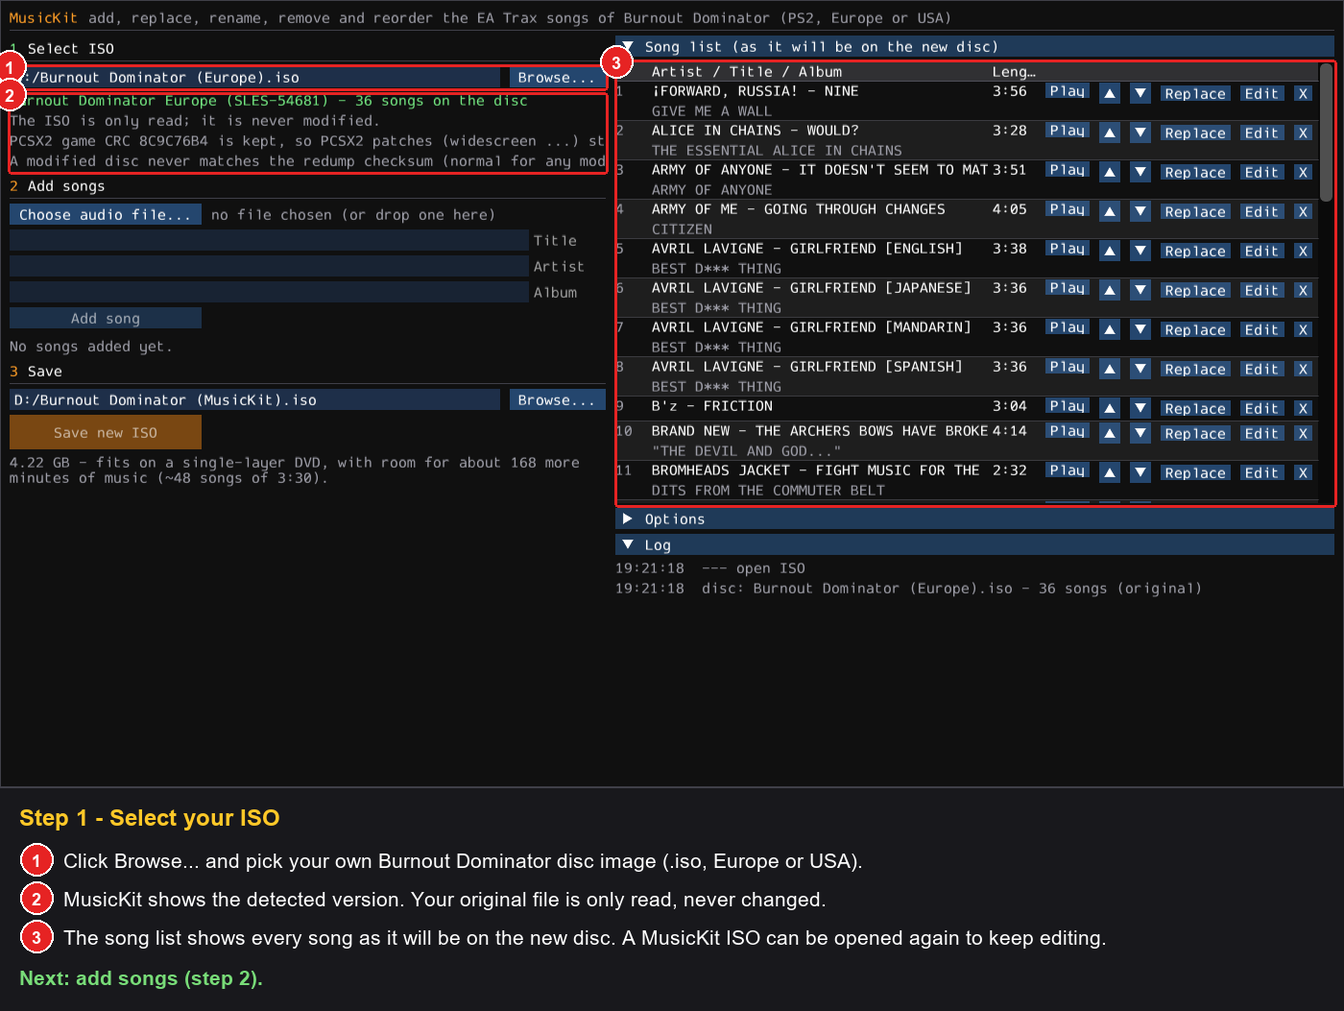
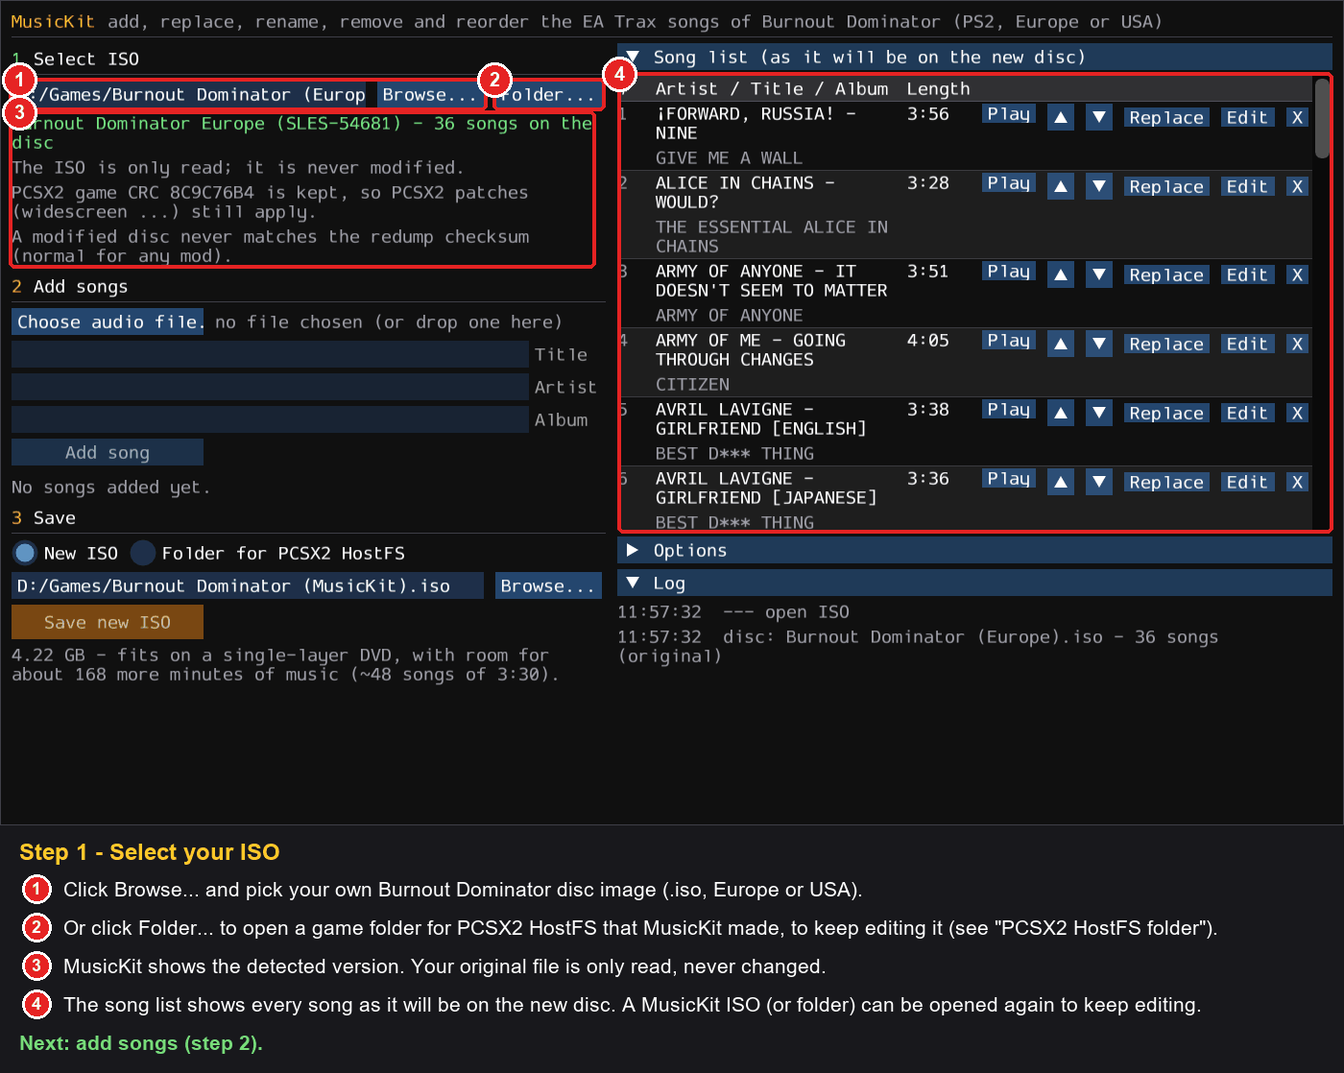
README: HostFS folder, combining mods, setup, new screenshots
- Install: Python 3.12-3.15 or none (private Python 3.13), what the setup does
- PCSX2 HostFS folder: save step by step, Play it in PCSX2 (Nahelam's patches,
  pnach names), combining mods, folders made by other tools
- Screenshots re-made for the current window (Folder..., output choice,
  HostFS before/after saving) and PCSX2 settings for HostFS

diff --git a/README.md b/README.md
@@ -11,9 +11,10 @@ the original ones included.
 - Works with your own disc image of **Burnout Dominator for PlayStation 2**:
   - Europe — `SLES-54681` (English) and `SLES-54627` (English, French, German, Spanish, Italian)
   - USA — `SLUS-21596`
-- Your original image is **only read, never modified**; MusicKit writes a **new** `.iso`.
-- Songs: MP3, FLAC, WAV, OGG, M4A … (anything ffmpeg can read), up to 94 songs in total.
-- Add, replace, rename, remove and reorder songs — and reopen an image MusicKit made to keep editing it.
+- Your original image is **only read, never modified**; MusicKit writes a **new** `.iso` — or, for PCSX2, saves
+  into a **game folder** ([PCSX2 HostFS](#pcsx2-hostfs-folder-no-new-iso)), where later changes take seconds.
+- Songs: MP3, FLAC, WAV, OGG, M4A … (anything ffmpeg can read), up to **94 songs** in total.
+- Add, replace, rename, remove and reorder songs — and reopen an image (or folder) MusicKit made to keep editing it.
 - Added songs get their own rows in the game's Song Manager (the original list has 36 rows).
 - The new image keeps the game's PCSX2 CRC (`8C9C76B4` / `8C9576B4` Europe, `8C9576A1` USA), so **PCSX2 still
   recognises the game and applies its patches** (widescreen etc.).
@@ -33,12 +34,13 @@ the original ones included.
 ### Step 3 — Arrange the song list (optional)
 ![Step 3 - replace, rename, remove and reorder songs](docs/images/step3_song_list.png)
 
-### Step 4 — Save a new ISO
+### Step 4 — Save a new ISO (or a PCSX2 HostFS folder)
 ![Step 4 - save the new ISO](docs/images/step4_save.png)
 
 Before you save, MusicKit shows the size of the new image and how much more music still fits on a single-layer
 DVD (4.7 GB) — calculated from *your* image. If it would not fit, you see a warning; you can still save it (see
-[FAQ](#faq)).
+[FAQ](#faq)). For PCSX2 you can choose **Folder for PCSX2 HostFS** instead — see
+[PCSX2 HostFS folder](#pcsx2-hostfs-folder-no-new-iso).
 
 ### Step 5 — Play
 Load the new `.iso` in PCSX2 (or burn it / run it on your PS2) and open **SETTINGS → EA TRAX**.
@@ -51,9 +53,9 @@ Load the new `.iso` in PCSX2 (or burn it / run it on your PS2) and open **SETTIN
 
 ## Guides
 
-Nothing is written until you click **Save new ISO** — every change below is only collected in the song list
-(right side), which shows the soundtrack exactly as it will be on the new disc. **Undo all changes** goes back to
-the song list of the opened image.
+Nothing is written until you click **Save new ISO** (or **Save to folder**) — every change below is only collected
+in the song list (right side), which shows the soundtrack exactly as it will be on the new disc. **Undo all
+changes** goes back to the song list of the opened image.
 
 ### Add songs
 *Choose audio file…* (or drop files on the window), type title / artist / album, click **Add song**. New songs are
@@ -79,7 +81,8 @@ Use ▲ / ▼ to move a song. Moved songs are tagged *[was #N]* with their old p
 
 ### Reopen a MusicKit ISO and keep editing
 Select an image MusicKit made in step 1: its current song list is read back from the disc (added and replaced
-songs are recognised). Change it like any other image and save another **new** `.iso`.
+songs are recognised). Change it like any other image and save another **new** `.iso`. A HostFS folder is opened
+with **Folder...** instead and saved into itself.
 
 ### Save games: removing or reordering songs
 The game stores the Song Manager setting of positions **1–36** (on/off, menus/races) on the memory card **by
@@ -96,12 +99,13 @@ you want and save your game.
 With PCSX2 you can also save your soundtrack into a **folder** instead of a new disc image. PCSX2's *Host
 Filesystem* then loads the game's files straight from that folder:
 
-- the first save copies the game's files from your ISO into the folder (once, about 2 GB);
+- the first save copies the game's files from your ISO into the folder (once, about 1.7 GB);
 - every later save only rewrites the files MusicKit changes (the song files, the song names and the game
   executable) — no new ISO each time, a save takes seconds;
-- there is no disc size limit in a folder.
+- there is no disc size limit in a folder (handy for the almost full 5-language Europe disc);
+- **PCSX2 only** — a folder does not work on a real PS2.
 
-PCSX2 only (not a real PS2). The Criterion games need a small PCSX2 cheat to read from a folder:
+The Criterion games need a small PCSX2 cheat to read from a folder:
 **Nahelam's HostFS patches** ([PCSX2-HostFS-Patches](https://github.com/Nahelam/PCSX2-HostFS-Patches), folder
 [Criterion Games](https://github.com/Nahelam/PCSX2-HostFS-Patches/tree/main/Criterion%20Games)) — thanks to
 [Nahelam](https://github.com/Nahelam) for making them. MusicKit does not include that cheat; you download it once.
@@ -113,7 +117,8 @@ file itself.
 
 ### Save into a folder
 1. Select your ISO in step 1 as usual and change the songs.
-2. In step 3 choose **Folder for PCSX2 HostFS** and pick an **empty folder** (or the folder of an earlier save).
+2. In step 3 choose **Folder for PCSX2 HostFS** and **Browse...** to an **empty folder** (or the folder of an
+   earlier save).
 3. The first time, choose **your Burnout Revenge ISO** in the field that appears below the folder, so MusicKit can
    copy `IOP/GTFSHOST.IRX` into the folder (or copy `IOP/GTFSHOST.IRX` from your Burnout Revenge disc into the
    folder's `IOP` folder yourself). Without it the game cannot start from the folder.
@@ -121,8 +126,12 @@ file itself.
    `Burnout Dominator (HostFS).iso` into the folder (it holds only `SYSTEM.CNF` and the game executable and is
    rebuilt on every save).
 
+![Save into a PCSX2 HostFS folder](docs/images/hostfs_save.png)
+
 To change the songs again, open the folder in step 1 with **Folder...** (or click *Open this folder here* after
 saving) and save again — it is saved into itself. Your ISO is never changed.
+
+![After saving: open the folder again, and how to play it in PCSX2](docs/images/hostfs_saved.png)
 
 ### Play it in PCSX2 (once)
 1. Download the cheat for your version from
@@ -134,67 +143,84 @@ saving) and save again — it is saved into itself. Your ISO is never changed.
    - Asia (SLAJ-25094): `SLAJ-25094_DDBB03C2_hostfs.pnach`
 
    Put it into PCSX2's `cheats` folder (PCSX2: *Tools → Open Data Directory*).
-2. Add your folder to PCSX2's game list (*Settings → Game List → Add...*, without recursive scan). It shows
-   `Burnout Dominator (HostFS).iso`.
+2. Add your folder to PCSX2's game list (*Settings → Game List → Add...*, without recursive scan). The game appears
+   as **Burnout Dominator**, only a few MB in size: that is the boot image `Burnout Dominator (HostFS).iso`.
 3. Right-click it → *Properties*: on the *Emulation* page switch on **Enable Host Filesystem**; on the *Cheats* page
    switch on **Enable Cheats** and tick **HostFS**.
-4. Start `Burnout Dominator (HostFS).iso`.
+4. Start it from the game list.
+
+![PCSX2: the folder in the game list, Enable Host Filesystem, Enable Cheats + HostFS](docs/images/pcsx2_hostfs.png)
 
 The game CRC stays the same, so PCSX2's widescreen patches and your other cheats still apply. MusicKit shows these
 steps after saving, too.
 
-**Stop the game before you save** into its folder: the running game keeps its files open. On Windows MusicKit
-then refuses to save (nothing is changed) and tells you why; restart the game after saving.
+- **Stop the game before you save** into its folder: the running game keeps its files open. On Windows MusicKit
+  then refuses to save (nothing is changed) and tells you why; restart the game after saving.
+- **Linux:** the game asks for its files in mixed letter case while the disc stores them in upper case. That only
+  works in a case-insensitive folder — on ext4 for example an empty folder with casefold switched on (`chattr +F`,
+  needs a file system created with casefold support). MusicKit warns when the folder is case-sensitive but still
+  lets you save and try. Windows and macOS (default file system) need nothing special.
 
-**Linux:** the game asks for its files in mixed letter case while the disc stores them in upper case. That only
-works in a case-insensitive folder — on ext4 for example an empty folder with casefold switched on (`chattr +F`,
-needs a file system created with casefold support). MusicKit warns when the folder is case-sensitive but still lets
-you save and try. Windows and macOS (default file system) need nothing special.
+### Combining mods
 
-### Other mods in the same folder
+- **Saving again:** always open the folder (not your ISO) and save — only the changed files are rewritten.
+- **Your ISO into a folder that already has the game:** MusicKit replaces only its own changes from your ISO. If
+  another mod changed the game executable there, MusicKit refuses (nothing is changed) and tells you to open the
+  folder instead — or pick an empty folder to start again from your ISO.
+- **Other mods are kept:** other people's file mods (replaced cars, textures, videos, extra files) are never
+  touched — MusicKit writes only the files it manages — and texts other mods changed in the game's text files
+  stay too. `validate` lists such files as notes, not as errors.
+- **PCSX2 cheats and patches** (widescreen etc.) keep working: the game CRC stays the same. The *HostFS* cheat is
+  only for the folder — **untick it** before you start a normal ISO of the same game (with it on, the ISO does not
+  start).
 
-- **Saving your ISO into a folder that already has the game** replaces only MusicKit's own changes from your ISO.
-  When another kit or mod changed the game executable there, MusicKit refuses (nothing is changed) and tells you
-  to open the folder instead (or to pick an empty folder to start again from your ISO).
-- **Other people's file mods** (replaced cars, textures, videos, extra files) are never touched: MusicKit writes only
-  the files it manages. Texts other mods changed in the game's text files are kept too. `validate` lists such
-  files as notes, not as errors.
-- **PCSX2 cheats** (widescreen and other patches) keep working: the game CRC stays the same. The per-game
-  *HostFS* cheat is only for the folder — **untick it** before you start a normal ISO of the same game
-  (with it on, the ISO does not start).
-- **Folders made by other tools** work: a folder extracted with 7-Zip, or set up as in Nahelam's guide (your own ISO
-  inside the folder). Start `Burnout Dominator (HostFS).iso` then — your own ISO in the folder still starts the game's
-  original executable, without MusicKit's changes to it. MusicKit explains what to do when names still end in `;1`
-  (extract again with 7-Zip), when you picked the folder above the game's files, or when files are missing (an
-  unfinished extraction: save from your ISO into the folder and the missing files are copied).
+<details>
+<summary><b>Folders made by other tools (7-Zip, Nahelam's guide) and what was tested</b></summary>
 
-Tested in PCSX2 2.8 (Europe discs): songs that exist only in the folder play from the folder in menus and races (the
-boot image holds only `SYSTEM.CNF` and the executable); other mods' files and texts stayed unchanged through every
-save.
+- A folder extracted with 7-Zip, or set up as in Nahelam's guide (your own ISO inside the folder), works. Start
+  `Burnout Dominator (HostFS).iso` then — your own ISO in the folder still starts the game's original executable,
+  without MusicKit's changes to it.
+- MusicKit explains what to do when names still end in `;1` (extract again with 7-Zip), when you picked the folder
+  above the game's files, or when files are missing (an unfinished extraction: save from your ISO into the folder
+  and the missing files are copied).
+- Tested in PCSX2 2.8 (Europe discs): songs that exist only in the folder play from the folder in menus and races
+  (the boot image holds only `SYSTEM.CNF` and the executable); other mods' files and texts stayed unchanged through
+  every save.
 
-Command line ([optional](#command-line-optional)): `build --iso "Burnout Dominator (Europe).iso" --folder "<folder>"
---gtfshost-from "Burnout Revenge (Europe).iso"` saves into a folder (copying `IOP/GTFSHOST.IRX` from your Burnout
-Revenge ISO); `--iso "<folder>"` opens one (it is then saved into itself); `validate "<your ISO>" "<folder>"`
-checks a folder.
+</details>
 
 ## Requirements
 
 | What | Details |
 |---|---|
 | Operating system | Windows 10 or 11 (64-bit), macOS 14 Sonoma or newer (Apple Silicon or Intel), or 64-bit Linux (x86_64 or aarch64, glibc 2.28+; tested on Ubuntu 22.04 / 24.04) |
-| Python | any Python 3.12 or newer, or none at all — the setup picks an installed Python for which every package is available ready-made, or downloads a private Python 3.13 into the `.python` folder (no admin rights needed, about 100 MB) |
+| Python | Python 3.12 – 3.15 (64-bit), or none at all: the setup uses an installed Python for which every package is available ready-made, otherwise it downloads a private Python 3.13 into the `.python` folder (no admin rights needed, about 100 MB) |
 | Python packages | installed automatically by `setup.bat` / `setup.command` / `setup.sh` into a private `.venv`: numpy, numba, glfw, PyOpenGL, imgui-bundle, Pillow, soundfile, pyloudnorm, pycdlib, pytest (see [requirements.txt](requirements.txt)) |
 | ffmpeg | downloaded automatically by `setup.bat` / `setup.command` / `setup.sh` (or install it yourself: Windows `winget install Gyan.FFmpeg`, macOS `brew install ffmpeg`, Linux your package manager, e.g. `sudo apt install ffmpeg`) |
 | Graphics | any GPU with OpenGL 3.3 (for the MusicKit window) |
-| Disk space | about 5 GB free for the new disc image (4.2–4.7 GB) plus ~1 GB for Python packages and ffmpeg |
+| Disk space | about 5 GB free for the new disc image (4.2–4.7 GB) — or about 2 GB for a HostFS folder — plus ~1 GB for Python packages and ffmpeg |
 | The game | your own disc image (.iso) of Burnout Dominator for PS2: Europe `SLES-54681` / `SLES-54627` or USA `SLUS-21596` |
+| Optional | your own disc image of Burnout Revenge (PS2), for the one file a HostFS folder needs (see [above](#pcsx2-hostfs-folder-no-new-iso)) |
 | Internet | only once, during `setup.bat` / `setup.command` / `setup.sh` |
+
+### What the setup does
+The setup scripts never compile anything and change nothing outside the MusicKit folder:
+
+1. They look for an installed 64-bit Python (3.12 – 3.15) and use the first one for which **every** package is
+   available ready-made, in a private environment `.venv`.
+2. If there is no Python, or none can install the packages (e.g. a brand-new Python 3.15 before the packages have
+   caught up), they download a **private Python 3.13** into the `.python` folder with
+   [uv](https://astral.sh/uv) (download checked against a checksum) and use that one.
+3. They get **ffmpeg** (an installed one is used when present).
+
+Run the setup again at any time: it updates the packages, or rebuilds `.venv` if it no longer works (e.g. after
+you removed the Python it was made with). `MUSICKIT_PRIVATE_PYTHON=1` makes it skip the installed Pythons.
 
 ## Installation (Windows 10 / 11)
 
-1. Optional: install **Python 3.12 or newer** from <https://www.python.org/downloads/> (tick *"Add python.exe to PATH"*).
-   Without it, or when your Python is too new for some packages (e.g. a fresh 3.15), `setup.bat` downloads a
-   private Python into the `.python` folder by itself.
+1. Optional: install **Python 3.12 – 3.15** from <https://www.python.org/downloads/> (tick *"Add python.exe to
+   PATH"*). Without it, `setup.bat` downloads a private Python by itself (see
+   [What the setup does](#what-the-setup-does)).
 2. Download this repository (green **Code** button → *Download ZIP*) and unpack it, or `git clone` it.
 3. Double-click **`setup.bat`** once. It creates a private Python environment in `.venv` and downloads
    **ffmpeg** into the `ffmpeg` folder (used to read MP3/FLAC/OGG/… files). Nothing is installed system-wide.
@@ -206,9 +232,9 @@ checks a folder.
 
 For Apple Silicon (M1 and newer) and Intel Macs with macOS 14 Sonoma or newer.
 
-1. Optional: install **Python 3.12 or newer** from <https://www.python.org/downloads/macos/> (or with
-   [Homebrew](https://brew.sh): `brew install python`). Without it, or when your Python is too new for some
-   packages, `setup.command` downloads a private Python into the `.python` folder by itself.
+1. Optional: install **Python 3.12 – 3.15** from <https://www.python.org/downloads/macos/> (or with
+   [Homebrew](https://brew.sh): `brew install python`). Without it, `setup.command` downloads a private Python by
+   itself (see [What the setup does](#what-the-setup-does)).
 2. Download this repository (green **Code** button → *Download ZIP*) and unpack it, or `git clone` it.
 3. Double-click **`setup.command`** once. It opens a Terminal window, creates a private Python environment in
    `.venv` and downloads **ffmpeg** into the `ffmpeg` folder (an ffmpeg installed with Homebrew is used instead
@@ -231,9 +257,9 @@ For Apple Silicon (M1 and newer) and Intel Macs with macOS 14 Sonoma or newer.
 For 64-bit Linux on x86_64 or aarch64 (glibc 2.28 or newer; Alpine / musl is not supported). Tested in CI on
 Ubuntu 22.04 and 24.04 (x86_64); other distributions (Debian, Fedora, Arch, openSUSE, Mint, ...) should work the same way.
 
-1. Install the system packages. Python is optional: `./setup.sh` uses an installed Python 3.12 or newer (on
-   Debian / Ubuntu with its separate `venv` package) and otherwise downloads a private Python into the `.python`
-   folder by itself:
+1. Install the system packages. Python is optional: `./setup.sh` uses an installed Python 3.12 – 3.15 (on
+   Debian / Ubuntu with its separate `venv` package) and otherwise downloads a private Python by itself (see
+   [What the setup does](#what-the-setup-does)):
    - Debian / Ubuntu / Mint: `sudo apt install python3 python3-venv python3-pip libgl1 libegl1 libxkbcommon0 zenity`
    - Fedora: `sudo dnf install python3 python3-pip mesa-libGL mesa-libEGL libxkbcommon zenity`
    - Arch / Manjaro: `sudo pacman -S python python-pip mesa libglvnd libxkbcommon zenity`
@@ -242,13 +268,13 @@ Ubuntu 22.04 and 24.04 (x86_64); other distributions (Debian, Fedora, Arch, open
      on KDE) is used for the file and folder dialogs; without it, the dialogs do not open. The GLFW and
      imgui-bundle wheels bring everything else. A sound player (`paplay`, `aplay` or `ffplay`) is used for previews.
 2. Download this repository (green **Code** button → *Download ZIP*) and unpack it, or `git clone` it.
-3. Open a terminal in the folder and run **`./setup.sh`** once. It creates a private Python environment in `.venv` and downloads **ffmpeg** into the `ffmpeg` folder (an ffmpeg installed with your package manager is used instead
-   when present).
-   Nothing is installed system-wide. If you get *"Permission denied"*, run `chmod +x *.sh` first.
+3. Open a terminal in the folder and run **`./setup.sh`** once. It creates a private Python environment in `.venv`
+   and downloads **ffmpeg** into the `ffmpeg` folder (an ffmpeg installed with your package manager is used instead
+   when present). Nothing is installed system-wide. If you get *"Permission denied"*, run `chmod +x *.sh` first.
    - If the ffmpeg download fails, install ffmpeg with your package manager (`sudo apt install ffmpeg`, `sudo dnf install ffmpeg`,
      `sudo pacman -S ffmpeg`), then run `./setup.sh` again.
 4. Start **`./MusicKit.sh`** and keep the terminal open while you use MusicKit. Settings and the log (`gui.log`) are kept in
-   `~/.config/musickit` (or `$XDG_CONFIG_HOME/musickit`).
+   `~/.config/musickit-dominator` (or `$XDG_CONFIG_HOME/musickit-dominator`).
 
 The Windows version also runs under Wine, but use the native Linux version.
 
@@ -284,7 +310,9 @@ something).
 | show the pending list | `queue` |
 | forget all pending changes | `reset` |
 | save the new image | `build --iso "Burnout Dominator (Europe).iso" --out "Burnout Dominator (MusicKit).iso"` |
-| check a new image | `validate "Burnout Dominator (Europe).iso" "Burnout Dominator (MusicKit).iso"` |
+| save into a PCSX2 HostFS folder instead | `build --iso "Burnout Dominator (Europe).iso" --folder "<folder>" --gtfshost-from "Burnout Revenge (Europe).iso"` (copies `IOP/GTFSHOST.IRX` from your Burnout Revenge ISO) |
+| change the songs of a folder again | `--iso "<folder>"` with `list`, `replace`, … and `build` (saved into itself) |
+| check a new image / a folder | `validate "Burnout Dominator (Europe).iso" "Burnout Dominator (MusicKit).iso"` · `validate "Burnout Dominator (Europe).iso" "<folder>"` |
 
 `remove` (without `-song`) removes a queued *new* song; `remove-song` removes a song from the disc.
 
@@ -298,8 +326,8 @@ also tells you whether the image fits on a single-layer DVD.
 image — it simply is not the original pressing anymore. It does not affect the game or PCSX2 patches: the game CRC
 (shown in PCSX2's game properties) stays the same.
 
-**Can I change the songs again later?** Yes. Open the image MusicKit made and add, replace, rename, remove or
-reorder songs; MusicKit reads the current song list back from that image.
+**Can I change the songs again later?** Yes. Open the image (or folder) MusicKit made and add, replace, rename,
+remove or reorder songs; MusicKit reads the current song list back from it.
 
 **Will my save game still work?** Yes. Adding songs, replacing audio and renaming keep every Song Manager setting
 where it is; new songs default to *ALL* (menus and races). Removing or moving songs shifts the saved settings of
@@ -309,8 +337,15 @@ save.
 
 **How many songs can the disc have?** From 1 up to 94 songs in total.
 
-**My songs don't show up.** Make sure you started the *new* `.iso`. Added songs are at the end of the Song Manager
-list unless you moved them — scroll down past the original songs.
+**My songs don't show up.** Make sure you started the *new* `.iso` (or, for a folder, the `(HostFS).iso` with Host
+Filesystem and the HostFS cheat switched on). Added songs are at the end of the Song Manager list unless you moved
+them — scroll down past the original songs.
+
+**The folder does not start in PCSX2.** Check that `IOP/GTFSHOST.IRX` is in the folder (MusicKit shows a warning
+after saving if it is missing): choose your Burnout Revenge ISO in step 3 and save again.
+
+**My normal ISO does not start any more.** The *HostFS* cheat is still ticked for this game: untick it in the
+game's *Properties → Cheats* (it is only for the folder).
 
 **Can I switch songs OFF?** Yes — Burnout Dominator lets you switch every song OFF in the Song Manager right away,
 original and added songs alike, so MusicKit has no extra option for it (the Burnout Revenge MusicKit needs one).
@@ -323,13 +358,19 @@ rule for those songs wherever you move them. If you give one of them new audio, 
 of added or long songs the new image can get bigger than that. It still works in emulators such as PCSX2, but it
 cannot be burned to a normal DVD for a real PS2 — remove or shorten songs until the warning is gone if you want
 to burn it. The 5-language Europe disc (`SLES-54627`) is already almost full: as soon as you add a song or give one
-new audio, its image no longer fits on a single-layer DVD (renaming, removing and reordering still fit).
+new audio, its image no longer fits on a single-layer DVD (renaming, removing and reordering still fit). A HostFS
+folder has no size limit.
 
 ## Other Burnout kits
 
 - [Burnout Revenge MusicKit](https://github.com/Bondimm/burnout-revenge-musickit) — add, replace, rename, remove and reorder the EA Trax songs of Burnout Revenge (PS2).
 - [Burnout 3: Takedown MusicKit](https://github.com/Bondimm/burnout3-takedown-musickit) — the same for Burnout 3: Takedown (PS2).
 - [Burnout Revenge ChainKit](https://github.com/Bondimm/burnout-revenge-chainkit) — Burnout Dominator's supercharge and Burnout chain for Burnout Revenge (PS2).
+
+## Thanks
+
+- [Nahelam](https://github.com/Nahelam) for the
+  [PCSX2 HostFS patches](https://github.com/Nahelam/PCSX2-HostFS-Patches) that make the folder mode possible.
 
 ## Legal
 
@@ -346,7 +387,8 @@ new audio, its image no longer fits on a single-layer DVD (renaming, removing an
 - **Bring your own game.** You need your own, legally obtained copy of Burnout Dominator and must create the disc
   image from it yourself. MusicKit does not bypass any copy protection; it only edits a copy of your own image.
 - **Do not share modified disc images.** Disc images contain the game, which is copyrighted by Electronic Arts.
-  Uploading or distributing them — modified or not — is not allowed.
+  Uploading or distributing them — modified or not — is not allowed. The same goes for HostFS game folders: they
+  hold the game's files.
 - **Music rights.** Songs belong to their artists and labels. Only add music you are allowed to use, keep your
   modified image for personal use, and do not distribute images or files that contain other people's music.
 - **No warranty.** The software is provided "as is", without warranty of any kind (see [LICENSE](LICENSE)).
